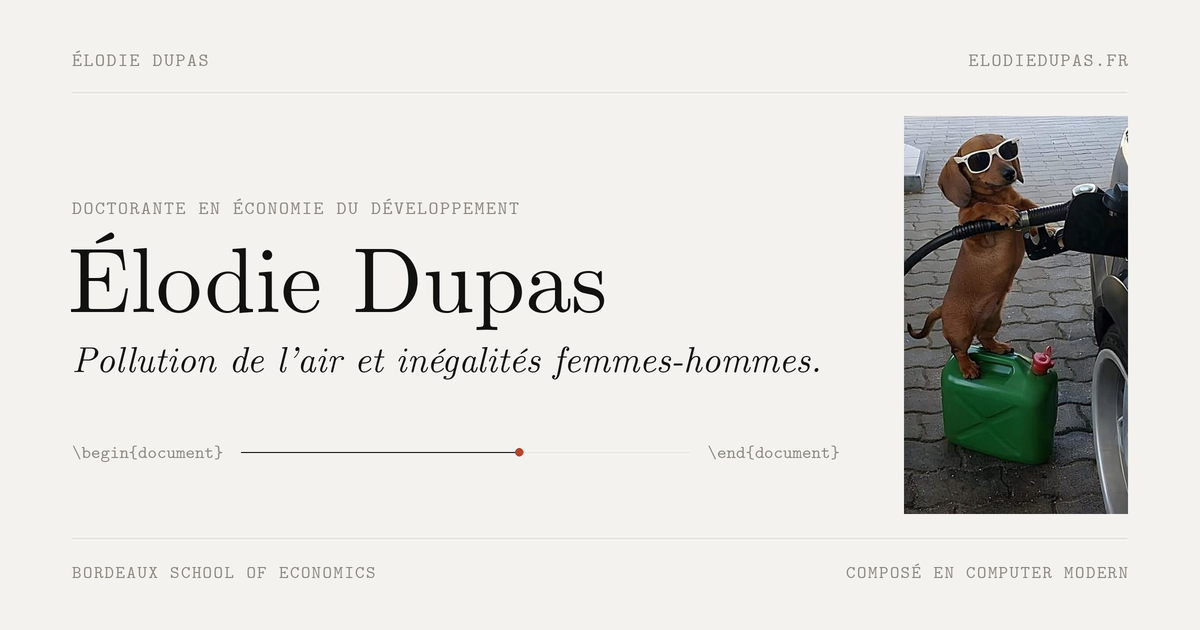
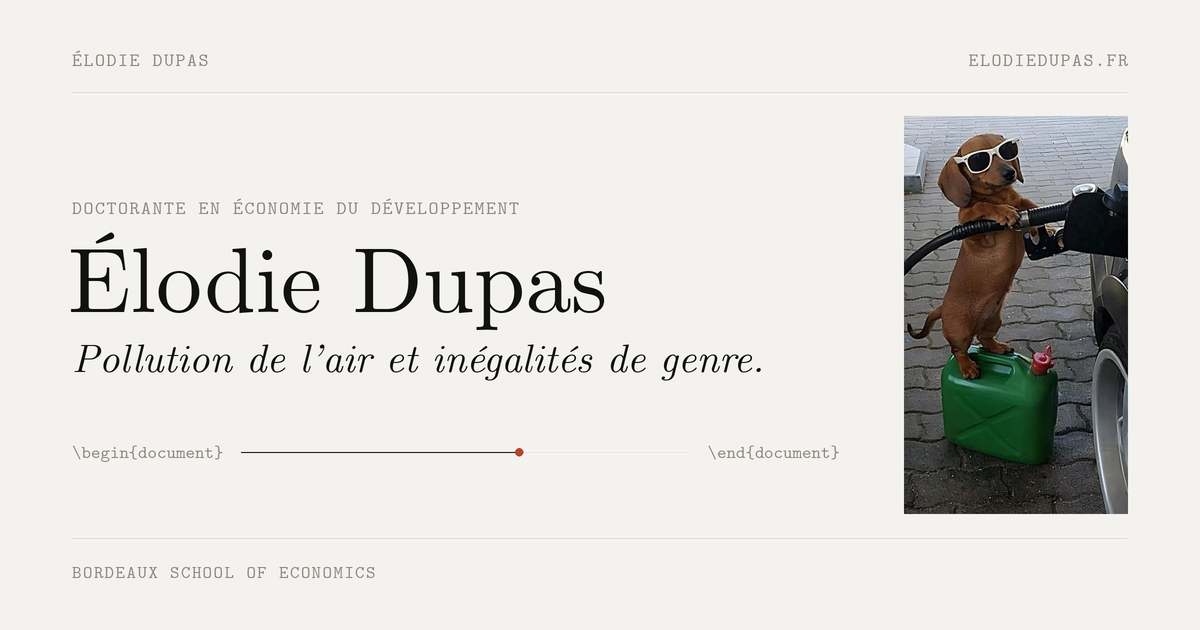
Contenu : adresse u-bordeaux, BxSE, légendes simplifiées
- E-mail : elodie.dupas@u-bordeaux.fr partout
- BSE devient BxSE (en-tête, données structurées, llms.txt)
- Fig. 1 : « Approvisionnement. » ; thèse : « inégalités de genre »
- Colophon « Composé en Computer Modern » retiré (FR, EN, images de partage)

Changed region(s): [[0.0617, 0.5429, 0.6783, 0.6032], [0.7092, 0.9048, 0.9558, 0.9349]]

diff --git a/index.html b/index.html
@@ -4,7 +4,7 @@
   <meta charset="utf-8">
   <meta name="viewport" content="width=device-width, initial-scale=1, viewport-fit=cover">
   <title>Élodie Dupas · Doctorante en économie du développement</title>
-  <meta name="description" content="Doctorante en économie du développement à la Bordeaux School of Economics. Thèse : pollution de l'air et inégalités femmes-hommes dans les pays en développement.">
+  <meta name="description" content="Doctorante en économie du développement à la Bordeaux School of Economics. Thèse : pollution de l'air et inégalités de genre dans les pays en développement.">
   <meta name="author" content="Élodie Dupas">
   <meta name="robots" content="index, follow, max-image-preview:large, max-snippet:-1, max-video-preview:-1">
   <link rel="canonical" href="https://elodiedupas.fr/">
@@ -19,7 +19,7 @@
   <meta property="og:url" content="https://elodiedupas.fr/">
   <meta property="og:locale" content="fr_FR">
   <meta property="og:locale:alternate" content="en_GB">
-  <meta property="og:image" content="https://elodiedupas.fr/og-fr.png?v=2">
+  <meta property="og:image" content="https://elodiedupas.fr/og-fr.png?v=3">
   <meta property="og:image:type" content="image/png">
   <meta property="og:image:width" content="1200">
   <meta property="og:image:height" content="630">
@@ -29,7 +29,7 @@
   <meta name="twitter:card" content="summary_large_image">
   <meta name="twitter:title" content="Élodie Dupas · Doctorante en économie du développement">
   <meta name="twitter:description" content="Doctorante à la Bordeaux School of Economics. Thèse sur les effets de la pollution de l'air dans les pays à revenu faible et intermédiaire, et leur répartition entre femmes et hommes.">
-  <meta name="twitter:image" content="https://elodiedupas.fr/og-fr.png?v=2">
+  <meta name="twitter:image" content="https://elodiedupas.fr/og-fr.png?v=3">
   <meta name="twitter:image:alt" content="Élodie Dupas, doctorante en économie du développement, Bordeaux School of Economics">
 
   <meta name="theme-color" content="#f3f2ee" media="(prefers-color-scheme: light)">
@@ -72,11 +72,11 @@
         "affiliation": {
           "@type": "ResearchOrganization",
           "name": "Bordeaux School of Economics",
-          "alternateName": ["BSE", "Bordeaux Sciences Économiques"],
+          "alternateName": ["BxSE", "Bordeaux Sciences Économiques"],
           "url": "https://www.bse.u-bordeaux.fr/"
         },
         "knowsAbout": ["Économie du développement", "Pollution de l'air", "Économie de l'environnement", "Genre", "Pays à revenu faible et intermédiaire"],
-        "email": "mailto:dupas.elodie@outlook.com",
+        "email": "mailto:elodie.dupas@u-bordeaux.fr",
         "sameAs": ["https://www.linkedin.com/in/elodie-dupas-15a38a14b/"]
       }
     ]
@@ -165,7 +165,7 @@
     }
     .bar > :last-child { text-align: right; }
     .bar.top { padding-bottom: 14px; border-bottom: 1px solid var(--hair); }
-    .bar.bottom { padding-top: 14px; border-top: 1px solid var(--hair); }
+    .bar.bottom { grid-template-columns: 1fr auto; padding-top: 14px; border-top: 1px solid var(--hair); }
 
     .name {
       font-weight: 400;
@@ -579,7 +579,7 @@
   <div class="page">
     <header class="bar top">
       <h1 class="name">Élodie Dupas</h1>
-      <span class="label muted mid">Doctorante en économie du développement · <abbr title="Bordeaux School of Economics">BSE</abbr></span>
+      <span class="label muted mid">Doctorante en économie du développement · <abbr title="Bordeaux School of Economics">BxSE</abbr></span>
       <div class="contact label">
         <button class="mail" type="button" aria-haspopup="dialog" aria-expanded="false" aria-controls="sheet">Me contacter</button>
       </div>
@@ -590,7 +590,7 @@
       <div class="stage">
         <div class="side left reveal">
           <p class="label muted">Fig. 1</p>
-          <p class="caption">Approvisionnement, étude de terrain.</p>
+          <p class="caption">Approvisionnement.</p>
         </div>
 
         <figure>
@@ -605,7 +605,7 @@
 
         <div class="side right reveal">
           <p class="label muted">§ 0 Thèse</p>
-          <p class="caption">Pollution de l’air et inégalités femmes-hommes.</p>
+          <p class="caption">Pollution de l’air et inégalités de genre.</p>
         </div>
       </div>
 
@@ -621,7 +621,6 @@
 
     <footer class="bar bottom">
       <span class="label muted">© <span id="y">2026</span> · <a class="lang" href="/en" hreflang="en" lang="en">English</a></span>
-      <span class="label muted mid">Composé en Computer Modern</span>
       <span class="label muted" id="today">18.10.2026</span>
     </footer>
   </div>
@@ -631,9 +630,9 @@
     <div class="sheet" role="dialog" aria-modal="true" aria-labelledby="sheet-title" tabindex="-1">
       <div class="grabber" aria-hidden="true"></div>
       <p class="label muted" id="sheet-title">Contact</p>
-      <p class="sheet-email">dupas.elodie@outlook.com</p>
+      <p class="sheet-email">elodie.dupas@u-bordeaux.fr</p>
       <div class="actions">
-        <a class="action" href="mailto:dupas.elodie@outlook.com">
+        <a class="action" href="mailto:elodie.dupas@u-bordeaux.fr">
           <svg viewBox="0 0 18 18" aria-hidden="true"><rect x="1.5" y="3.5" width="15" height="11" rx="1.5"/><path d="m2 4.5 7 5.5 7-5.5"/></svg>
           <span>Écrire un e-mail</span>
           <svg class="chev" viewBox="0 0 12 12" aria-hidden="true"><path d="m4.5 2 4 4-4 4"/></svg>
@@ -657,7 +656,7 @@
       document.getElementById("y").textContent = d.getFullYear();
       document.getElementById("today").textContent = p(d.getDate()) + "." + p(d.getMonth() + 1) + "." + d.getFullYear();
     } catch (e) {}
-    var EMAIL = "dupas.elodie@outlook.com";
+    var EMAIL = "elodie.dupas@u-bordeaux.fr";
     var statusEl = document.getElementById("contact-status");
 
     function copyEmail() {

diff --git a/en/index.html b/en/index.html
@@ -19,7 +19,7 @@
   <meta property="og:url" content="https://elodiedupas.fr/en">
   <meta property="og:locale" content="en_GB">
   <meta property="og:locale:alternate" content="fr_FR">
-  <meta property="og:image" content="https://elodiedupas.fr/og-en.png?v=2">
+  <meta property="og:image" content="https://elodiedupas.fr/og-en.png?v=3">
   <meta property="og:image:type" content="image/png">
   <meta property="og:image:width" content="1200">
   <meta property="og:image:height" content="630">
@@ -29,7 +29,7 @@
   <meta name="twitter:card" content="summary_large_image">
   <meta name="twitter:title" content="Élodie Dupas · PhD Candidate in Development Economics">
   <meta name="twitter:description" content="PhD candidate at the Bordeaux School of Economics. Research on the effects of air pollution in low- and middle-income countries and how they differ between women and men.">
-  <meta name="twitter:image" content="https://elodiedupas.fr/og-en.png?v=2">
+  <meta name="twitter:image" content="https://elodiedupas.fr/og-en.png?v=3">
   <meta name="twitter:image:alt" content="Élodie Dupas, PhD candidate in development economics, Bordeaux School of Economics">
 
   <meta name="theme-color" content="#f3f2ee" media="(prefers-color-scheme: light)">
@@ -72,11 +72,11 @@
         "affiliation": {
           "@type": "ResearchOrganization",
           "name": "Bordeaux School of Economics",
-          "alternateName": ["BSE", "Bordeaux Sciences Économiques"],
+          "alternateName": ["BxSE", "Bordeaux Sciences Économiques"],
           "url": "https://www.bse.u-bordeaux.fr/"
         },
         "knowsAbout": ["Development economics", "Air pollution", "Environmental economics", "Gender", "Low- and middle-income countries"],
-        "email": "mailto:dupas.elodie@outlook.com",
+        "email": "mailto:elodie.dupas@u-bordeaux.fr",
         "sameAs": ["https://www.linkedin.com/in/elodie-dupas-15a38a14b/"]
       }
     ]
@@ -165,7 +165,7 @@
     }
     .bar > :last-child { text-align: right; }
     .bar.top { padding-bottom: 14px; border-bottom: 1px solid var(--hair); }
-    .bar.bottom { padding-top: 14px; border-top: 1px solid var(--hair); }
+    .bar.bottom { grid-template-columns: 1fr auto; padding-top: 14px; border-top: 1px solid var(--hair); }
 
     .name {
       font-weight: 400;
@@ -579,7 +579,7 @@
   <div class="page">
     <header class="bar top">
       <h1 class="name">Élodie Dupas</h1>
-      <span class="label muted mid">PhD candidate in development economics · <abbr title="Bordeaux School of Economics">BSE</abbr></span>
+      <span class="label muted mid">PhD candidate in development economics · <abbr title="Bordeaux School of Economics">BxSE</abbr></span>
       <div class="contact label">
         <button class="mail" type="button" aria-haspopup="dialog" aria-expanded="false" aria-controls="sheet">Contact me</button>
       </div>
@@ -590,7 +590,7 @@
       <div class="stage">
         <div class="side left reveal">
           <p class="label muted">Fig. 1</p>
-          <p class="caption">Supply chain, a field study.</p>
+          <p class="caption">Supply.</p>
         </div>
 
         <figure>
@@ -621,7 +621,6 @@
 
     <footer class="bar bottom">
       <span class="label muted">© <span id="y">2026</span> · <a class="lang" href="/" hreflang="fr" lang="fr">Français</a></span>
-      <span class="label muted mid">Typeset in Computer Modern</span>
       <span class="label muted" id="today">18.10.2026</span>
     </footer>
   </div>
@@ -631,9 +630,9 @@
     <div class="sheet" role="dialog" aria-modal="true" aria-labelledby="sheet-title" tabindex="-1">
       <div class="grabber" aria-hidden="true"></div>
       <p class="label muted" id="sheet-title">Contact</p>
-      <p class="sheet-email">dupas.elodie@outlook.com</p>
+      <p class="sheet-email">elodie.dupas@u-bordeaux.fr</p>
       <div class="actions">
-        <a class="action" href="mailto:dupas.elodie@outlook.com">
+        <a class="action" href="mailto:elodie.dupas@u-bordeaux.fr">
           <svg viewBox="0 0 18 18" aria-hidden="true"><rect x="1.5" y="3.5" width="15" height="11" rx="1.5"/><path d="m2 4.5 7 5.5 7-5.5"/></svg>
           <span>Write an email</span>
           <svg class="chev" viewBox="0 0 12 12" aria-hidden="true"><path d="m4.5 2 4 4-4 4"/></svg>
@@ -657,7 +656,7 @@
       document.getElementById("y").textContent = d.getFullYear();
       document.getElementById("today").textContent = p(d.getDate()) + "." + p(d.getMonth() + 1) + "." + d.getFullYear();
     } catch (e) {}
-    var EMAIL = "dupas.elodie@outlook.com";
+    var EMAIL = "elodie.dupas@u-bordeaux.fr";
     var statusEl = document.getElementById("contact-status");
 
     function copyEmail() {

diff --git a/tools/build-en.py b/tools/build-en.py
@@ -17,7 +17,7 @@ TITLE_EN = "Élodie Dupas · PhD Candidate in Development Economics"
 PAIRS = [
     ('<html lang="fr">', '<html lang="en">'),
     (TITLE_FR, TITLE_EN),
-    ('content="Doctorante en économie du développement à la Bordeaux School of Economics. Thèse : pollution de l\'air et inégalités femmes-hommes dans les pays en développement."',
+    ('content="Doctorante en économie du développement à la Bordeaux School of Economics. Thèse : pollution de l\'air et inégalités de genre dans les pays en développement."',
      'content="PhD candidate in development economics at the Bordeaux School of Economics. Research on air pollution and gender in low- and middle-income countries."'),
     ('<link rel="canonical" href="https://elodiedupas.fr/">', '<link rel="canonical" href="https://elodiedupas.fr/en">'),
     ('content="Doctorante à la Bordeaux School of Economics. Thèse sur les effets de la pollution de l\'air dans les pays à revenu faible et intermédiaire, et leur répartition entre femmes et hommes."',
@@ -25,7 +25,7 @@ PAIRS = [
     ('<meta property="og:url" content="https://elodiedupas.fr/">', '<meta property="og:url" content="https://elodiedupas.fr/en">'),
     ('<meta property="og:locale" content="fr_FR">\n  <meta property="og:locale:alternate" content="en_GB">',
      '<meta property="og:locale" content="en_GB">\n  <meta property="og:locale:alternate" content="fr_FR">'),
-    ('https://elodiedupas.fr/og-fr.png?v=2', 'https://elodiedupas.fr/og-en.png?v=2'),
+    ('https://elodiedupas.fr/og-fr.png?v=3', 'https://elodiedupas.fr/og-en.png?v=3'),
     ('content="Élodie Dupas, doctorante en économie du développement, Bordeaux School of Economics"',
      'content="Élodie Dupas, PhD candidate in development economics, Bordeaux School of Economics"'),
     # JSON-LD
@@ -38,14 +38,13 @@ PAIRS = [
     # Contenu visible
     ('Doctorante en économie du développement · <abbr', 'PhD candidate in development economics · <abbr'),
     ('aria-controls="sheet">Me contacter</button>', 'aria-controls="sheet">Contact me</button>'),
-    ('<p class="caption">Approvisionnement, étude de terrain.</p>', '<p class="caption">Supply chain, a field study.</p>'),
+    ('<p class="caption">Approvisionnement.</p>', '<p class="caption">Supply.</p>'),
     ('alt="Un teckel en lunettes de soleil, debout sur un jerrican, qui fait le plein à la pompe."',
      'alt="A dachshund in sunglasses, standing on a jerrycan, filling up at a petrol pump."'),
     ('<p class="label muted">§ 0 Thèse</p>', '<p class="label muted">§ 0 Thesis</p>'),
-    ('<p class="caption">Pollution de l’air et inégalités femmes-hommes.</p>', '<p class="caption">Air pollution and gender inequality.</p>'),
+    ('<p class="caption">Pollution de l’air et inégalités de genre.</p>', '<p class="caption">Air pollution and gender inequality.</p>'),
     ('<span>Page en cours de remplissage</span>', '<span>Page filling up</span>'),
     ('<a class="lang" href="/en" hreflang="en" lang="en">English</a>', '<a class="lang" href="/" hreflang="fr" lang="fr">Français</a>'),
-    ('<span class="label muted mid">Composé en Computer Modern</span>', '<span class="label muted mid">Typeset in Computer Modern</span>'),
     ('<span>Écrire un e-mail</span>', '<span>Write an email</span>'),
     ('<span class="txt"><span>Copier l\'adresse</span><span>Adresse copiée</span></span>', '<span class="txt"><span>Copy address</span><span>Address copied</span></span>'),
     ('data-close>Fermer</button>', 'data-close>Close</button>'),

diff --git a/DESIGN.md b/DESIGN.md
@@ -6,7 +6,7 @@ Référence de la direction artistique du site. Source de vérité : les variabl
 
 ## 1. Intention
 
-- **Sujet** : site d'Élodie Dupas, doctorante en économie du développement (Bordeaux School of Economics). Thèse : pollution de l'air et inégalités femmes-hommes dans les pays à revenu faible et intermédiaire.
+- **Sujet** : site d'Élodie Dupas, doctorante en économie du développement (Bordeaux School of Economics). Thèse : pollution de l'air et inégalités de genre dans les pays à revenu faible et intermédiaire.
 - **Ton** : sérieux, épuré, « agence de DA » subtil mais léché. L'humour tient en un seul élément, le meme (teckel à la pompe), traité comme une figure d'article scientifique.
 - **Références** : l'article LaTeX (Computer Modern, figures numérotées, sections §, `\begin{document}`), la grille éditoriale suisse, le papier imprimé (grain léger).
 - **Contraintes fortes** :
@@ -65,21 +65,21 @@ Structure en trois bandes, hauteur exacte de la fenêtre (`100dvh`, repli `100vh
 
 ```
 ┌───────────────────────────────────────────────────────────────┐
-│ Élodie Dupas      DOCTORANTE EN ÉCONOMIE… · BSE    ME CONTACTER│  barre haute + filet
+│ Élodie Dupas     DOCTORANTE EN ÉCONOMIE… · BxSE    ME CONTACTER│  barre haute + filet
 ├───────────────────────────────────────────────────────────────┤
 │                         ┌────────┐  § 0 THÈSE                  │
 │                         │  meme  │  Pollution de l’air et…     │  scène
 │   FIG. 1                │  9:16  │                             │
-│   Approvisionnement,…   └────────┘                             │
+│   Approvisionnement.    └────────┘                             │
 │                Page en cours de remplissage                    │  titre
 │        \begin{document} ───────●──────── \end{document}        │  filet
 ├───────────────────────────────────────────────────────────────┤
-│ © 2026 · English        COMPOSÉ EN COMPUTER MODERN  19.10.2026 │  barre basse + filet
+│ © 2026 · English                                    19.10.2026 │  barre basse + filet
 └───────────────────────────────────────────────────────────────┘
 ```
 
 - **Marges** de page : `clamp(16px, 3.2vw, 44px)` sur les côtés ; haut `clamp(12px, 3vh, 22px)` ; zones sûres iOS respectées (`env(safe-area-inset-*)`).
-- **Barres** : grille `1fr auto 1fr`, filet `--hair` de 1 px, 14 px d'espacement (8 px sur écran très bas).
+- **Barres** : grille `1fr auto 1fr` en haut, `1fr auto` en bas, filet `--hair` de 1 px, 14 px d'espacement (8 px sur écran très bas).
 - **Scène** : grille `1fr auto 1fr`. « Fig. 1 » + légende à gauche, alignées en bas de l'image ; « § 0 Thèse » + sujet à droite, alignés en haut de l'image.
 - **Image** : ratio 9:16, hauteur = espace disponible via container queries (`min(100cqh, var(--plate-max), 177.7cqw)`), plafond `--plate-max` = 620 px (760 px sur grand écran). Repli sans container queries : `clamp(160px, 100vh − 330px, …)`.
 - **Composition centrée verticalement** : la rangée image grandit jusqu'au plafond, puis l'ensemble image + titre reste centré.
@@ -98,8 +98,8 @@ Testé sur Chrome, Firefox et WebKit, du 320×568 au 3440×1300, plus le télép
 
 ## 5. Éléments signature (LaTeX / recherche)
 
-- **Composé en Computer Modern** : la police de LaTeX, citée en colophon dans le pied de page.
-- **Figure numérotée** : « FIG. 1 » + légende en italique, comme dans un article (« Approvisionnement, étude de terrain. »).
+- **Computer Modern** : la police de LaTeX, utilisée pour tout le site (pas de colophon visible).
+- **Figure numérotée** : « FIG. 1 » + légende en italique, comme dans un article (« Approvisionnement. »).
 - **Section** : « § 0 THÈSE » + sujet de thèse.
 - **Filet de progression** : `\begin{document}` ─── ● ─── `\end{document}`, rempli à 62 %, point accent qui pulse. Métaphore de la page « en cours de remplissage ».
 - **Grain de papier** : bruit SVG (`feTurbulence`) fixe, opacité 5 % (7 % en sombre).
@@ -132,7 +132,7 @@ Séquence d'arrivée :
 Le même panneau sert partout, son affichage s'adapte :
 
 - **Déclencheur** : « ME CONTACTER » (libellé Typewriter, en haut à droite), soulignement qui se trace au survol et reste visible tant que le panneau est ouvert (desktop).
-- **Contenu** : libellé « CONTACT », adresse `dupas.elodie@outlook.com` en italique, puis deux lignes séparées par des filets :
+- **Contenu** : libellé « CONTACT », adresse `elodie.dupas@u-bordeaux.fr` en italique, puis deux lignes séparées par des filets :
   - enveloppe + « Écrire un e-mail » + chevron → `mailto:` ;
   - icône copier + « Copier l'adresse » → l'icône devient une coche accent et le texte « Adresse copiée ».
 - **Mobile** (`hover: none` et `pointer: coarse`) : bottom sheet pleine largeur, coins hauts arrondis 18 px, poignée, bouton « Fermer », voile sombre. Se ferme en glissant vers le bas (seuil 30 % ou vitesse > 0.45 px/ms), en touchant le voile, ou 1.4 s après la copie. Vibration courte à la copie sur Android.
@@ -156,12 +156,11 @@ Icônes : traits fins (1.2 px), bouts arrondis, `currentColor`, dessinées en SV
 
 | Emplacement | Français | Anglais |
 |---|---|---|
-| Barre haute | Doctorante en économie du développement · BSE | PhD candidate in development economics · BSE |
+| Barre haute | Doctorante en économie du développement · BxSE | PhD candidate in development economics · BxSE |
 | Bouton | Me contacter | Contact me |
-| Fig. 1 | Approvisionnement, étude de terrain. | Supply chain, a field study. |
-| § 0 | Thèse — Pollution de l’air et inégalités femmes-hommes. | Thesis — Air pollution and gender inequality. |
+| Fig. 1 | Approvisionnement. | Supply. |
+| § 0 | Thèse — Pollution de l’air et inégalités de genre. | Thesis — Air pollution and gender inequality. |
 | Titre | Page en cours de remplissage | Page filling up |
-| Colophon | Composé en Computer Modern | Typeset in Computer Modern |
 | Panneau | Écrire un e-mail / Copier l'adresse / Adresse copiée / Fermer | Write an email / Copy address / Address copied / Close |
 
 La version anglaise (`en/index.html`) est **générée** par `python3 tools/build-en.py` : toute modification de `index.html` doit être suivie de cette commande, et tout nouveau texte visible ajouté à la liste `PAIRS` du script.
